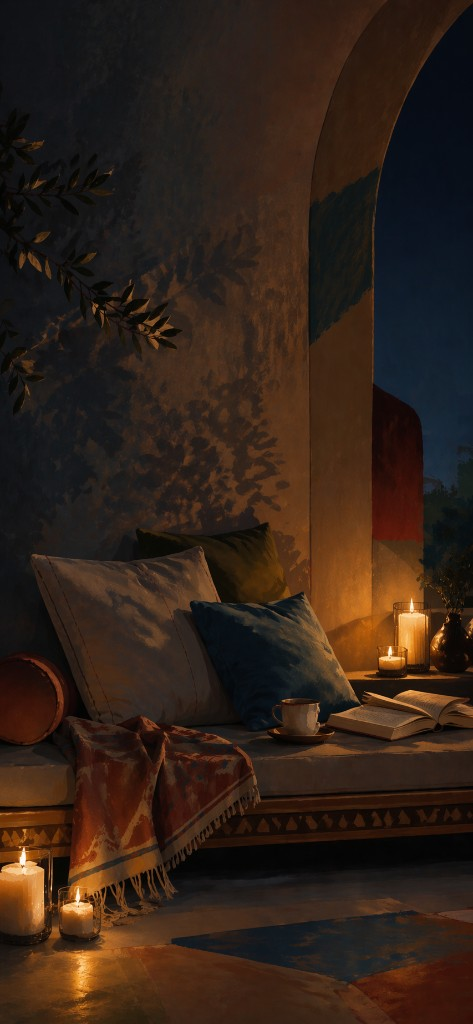
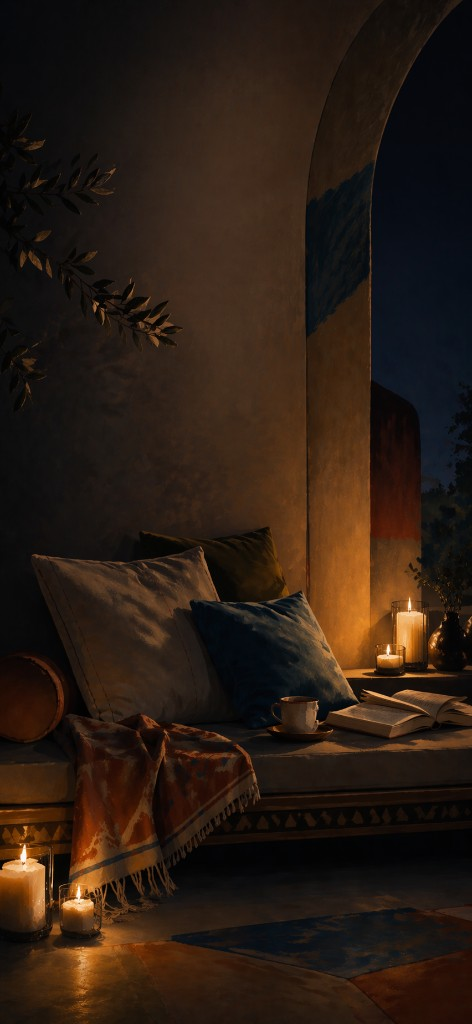
Home: update background images

diff --git a/src/app/page.tsx b/src/app/page.tsx
@@ -23,23 +23,23 @@ function Tile({
 }) {
   const panel =
     variant === "stories"
-      ? "bg-[color:color-mix(in_oklab,var(--color-panel)_32%,transparent)]"
-      : "bg-[color:color-mix(in_oklab,var(--color-panel)_28%,transparent)]";
+      ? "bg-[color:color-mix(in_oklab,var(--color-panel)_22%,transparent)]"
+      : "bg-[color:color-mix(in_oklab,var(--color-panel)_20%,transparent)]";
   const glow =
     variant === "stories"
-      ? "bg-[radial-gradient(circle_at_20%_20%,color-mix(in_oklab,var(--blob-b)_16%,transparent),transparent_58%),radial-gradient(circle_at_80%_70%,color-mix(in_oklab,var(--blob-a)_14%,transparent),transparent_62%)]"
-      : "bg-[radial-gradient(circle_at_20%_30%,color-mix(in_oklab,var(--blob-a)_14%,transparent),transparent_60%),radial-gradient(circle_at_75%_25%,color-mix(in_oklab,var(--blob-c)_12%,transparent),transparent_62%)]";
+      ? "bg-[radial-gradient(circle_at_18%_18%,color-mix(in_oklab,var(--blob-b)_14%,transparent),transparent_62%),radial-gradient(circle_at_82%_78%,color-mix(in_oklab,var(--blob-a)_12%,transparent),transparent_66%)]"
+      : "bg-[radial-gradient(circle_at_20%_28%,color-mix(in_oklab,var(--blob-a)_12%,transparent),transparent_64%),radial-gradient(circle_at_78%_22%,color-mix(in_oklab,var(--blob-c)_10%,transparent),transparent_66%)]";
 
   return (
     <Link
       href={href}
-      className={`home-tile group relative block overflow-hidden rounded-[1.15rem] border border-[color:color-mix(in_oklab,var(--color-border)_50%,transparent)] ${panel} p-[1.05rem] ring-1 ring-[color:color-mix(in_oklab,var(--color-ring)_38%,transparent)] backdrop-blur-[11px] transition active:scale-[0.99] motion-safe:hover:bg-[color:color-mix(in_oklab,var(--color-panel)_42%,transparent)]`}
+      className={`home-tile group relative block overflow-hidden rounded-[1.25rem] border border-[color:color-mix(in_oklab,var(--color-border)_42%,transparent)] ${panel} p-[1.1rem] ring-1 ring-[color:color-mix(in_oklab,var(--color-ring)_34%,transparent)] backdrop-blur-[16px] transition active:scale-[0.99] motion-safe:hover:bg-[color:color-mix(in_oklab,var(--color-panel)_30%,transparent)]`}
     >
-      <div aria-hidden="true" className={`pointer-events-none absolute inset-0 ${glow} opacity-55`} />
+      <div aria-hidden="true" className={`pointer-events-none absolute inset-0 ${glow} opacity-45`} />
 
       <div className="relative space-y-1.5">
-        <div className="home-card-title text-[1.2rem] leading-[1.08] sm:text-[1.22rem]">{title}</div>
-        <div className="home-card-body text-sm leading-relaxed">{subtitle}</div>
+        <div className="home-card-title text-[1.22rem] leading-[1.06] sm:text-[1.24rem]">{title}</div>
+        <div className="home-card-body text-[0.95rem] leading-relaxed">{subtitle}</div>
       </div>
     </Link>
   );
@@ -53,30 +53,38 @@ export default function Home() {
         aria-hidden="true"
         className="pointer-events-none fixed inset-0 z-[5] h-[100dvh] min-h-[100dvh] w-full"
       >
-        <div className="h-full w-full bg-[image:var(--home-artwork)] bg-cover bg-center bg-no-repeat opacity-[0.92] [filter:saturate(0.94)_contrast(0.94)]" />
-        <div className="absolute inset-0 bg-[color:var(--home-art-overlay)]" />
+        {/* Keep the original artwork brightness (no filters / global overlays) */}
+        <div className="h-full w-full bg-[image:var(--home-artwork)] bg-cover bg-center bg-no-repeat opacity-100 [filter:brightness(var(--home-bg-brightness))]" />
+
+        {/* Local readability only (not affecting the whole image) */}
+        <div className="absolute left-0 top-0 h-[44dvh] w-full bg-[image:var(--home-top-scrim)] opacity-60 [mix-blend-mode:multiply]" />
+        <div className="absolute bottom-0 left-0 h-[30dvh] w-full bg-[image:var(--home-bottom-scrim)] opacity-60 [mix-blend-mode:multiply]" />
       </div>
 
       {/* Theme toggle — fixed top-right over the artwork */}
       <div className="pointer-events-none fixed inset-x-0 top-0 z-30 flex justify-end px-4 pt-[max(0.75rem,env(safe-area-inset-top))] sm:px-5">
         <div className="pointer-events-auto">
-          <ThemeToggle className="home-hero-toggle border-[color:color-mix(in_oklab,var(--color-border)_42%,transparent)] bg-[color:color-mix(in_oklab,var(--color-toggle-bg)_48%,transparent)] ring-1 ring-[color:color-mix(in_oklab,var(--color-ring)_48%,transparent)] backdrop-blur-[14px]" />
+          <ThemeToggle className="home-hero-toggle border-[color:color-mix(in_oklab,var(--color-border)_36%,transparent)] bg-[color:color-mix(in_oklab,var(--color-toggle-bg)_36%,transparent)] ring-1 ring-[color:color-mix(in_oklab,var(--color-ring)_42%,transparent)] backdrop-blur-[18px]" />
         </div>
       </div>
 
       {/* Content (hero + cards) stays in layout column; no toggle inside hero */}
-      <div className="relative z-20 w-full pb-10 pt-[4.75rem] sm:pb-12 sm:pt-[5.25rem]">
-        <header className="space-y-4">
-          <h1 className="home-hero-title text-balance-safe text-[2.1rem] leading-[1.08] sm:text-[2.35rem]">
+      <div className="relative z-20 w-full pb-10 pt-[5.15rem] sm:pb-12 sm:pt-[5.7rem]">
+        <header className="relative space-y-4 px-0">
+          <div
+            aria-hidden="true"
+            className="pointer-events-none absolute -left-6 -top-6 h-[34dvh] w-[120%] bg-[image:var(--home-hero-underlay)] opacity-100"
+          />
+          <h1 className="home-hero-title text-balance-safe text-[2.22rem] leading-[1.06] sm:text-[2.5rem]">
             <span className="block">Какой красивый мир</span>
             <span className="block">мы создаём вместе.</span>
           </h1>
-          <p className="home-hero-sub home-hero-tagline text-pretty text-[0.95rem] leading-relaxed sm:text-[1rem]">
+          <p className="home-hero-sub home-hero-tagline text-pretty text-[0.98rem] leading-relaxed sm:text-[1.02rem]">
             Посиди, отдохни, почитай, улыбнись
           </p>
         </header>
 
-        <section className="mt-8 grid gap-3">
+        <section className="mt-9 grid gap-3.5">
           <Tile
             variant="stories"
             title="Воспоминания"
@@ -91,7 +99,7 @@ export default function Home() {
           />
         </section>
 
-        <p className="home-helper mt-8 text-center text-[0.68rem] leading-relaxed opacity-90">
+        <p className="home-helper mt-9 text-center text-[0.72rem] leading-relaxed opacity-95">
           <span className="block">Совет: добавь страницу на экран телефона</span>
           <span className="block">Поделиться → На экран «Домой»</span>
         </p>
